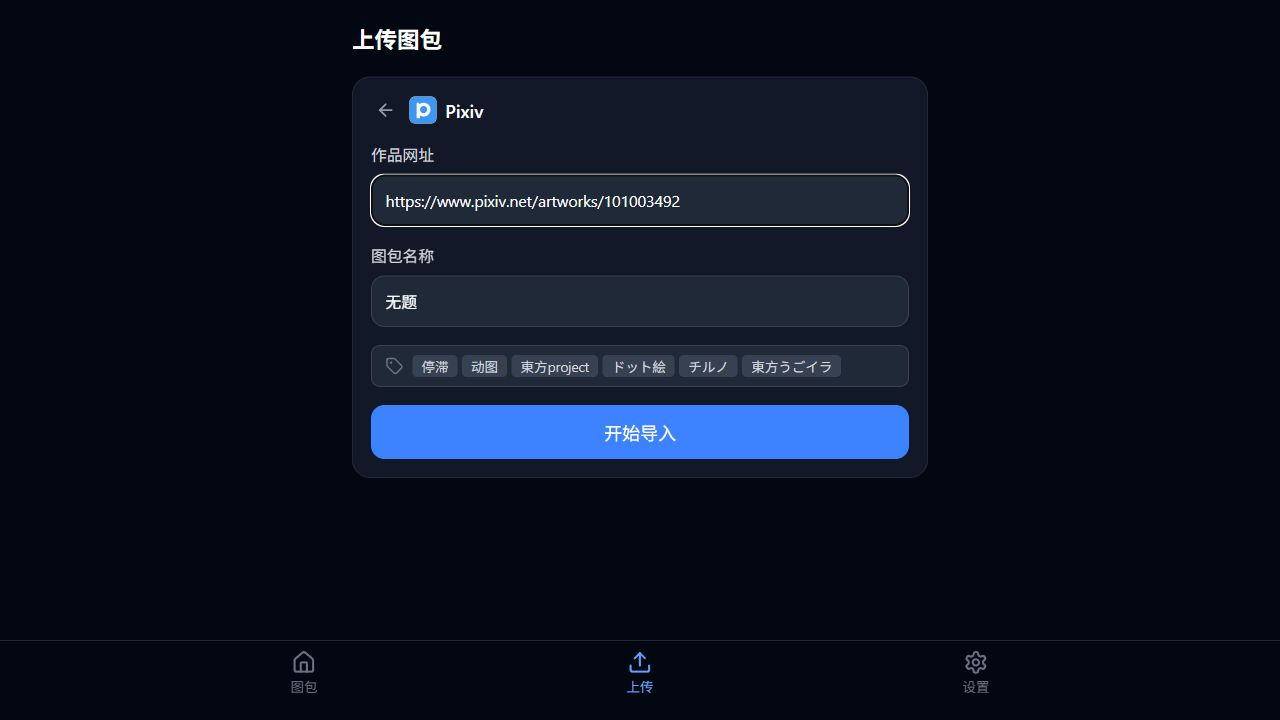
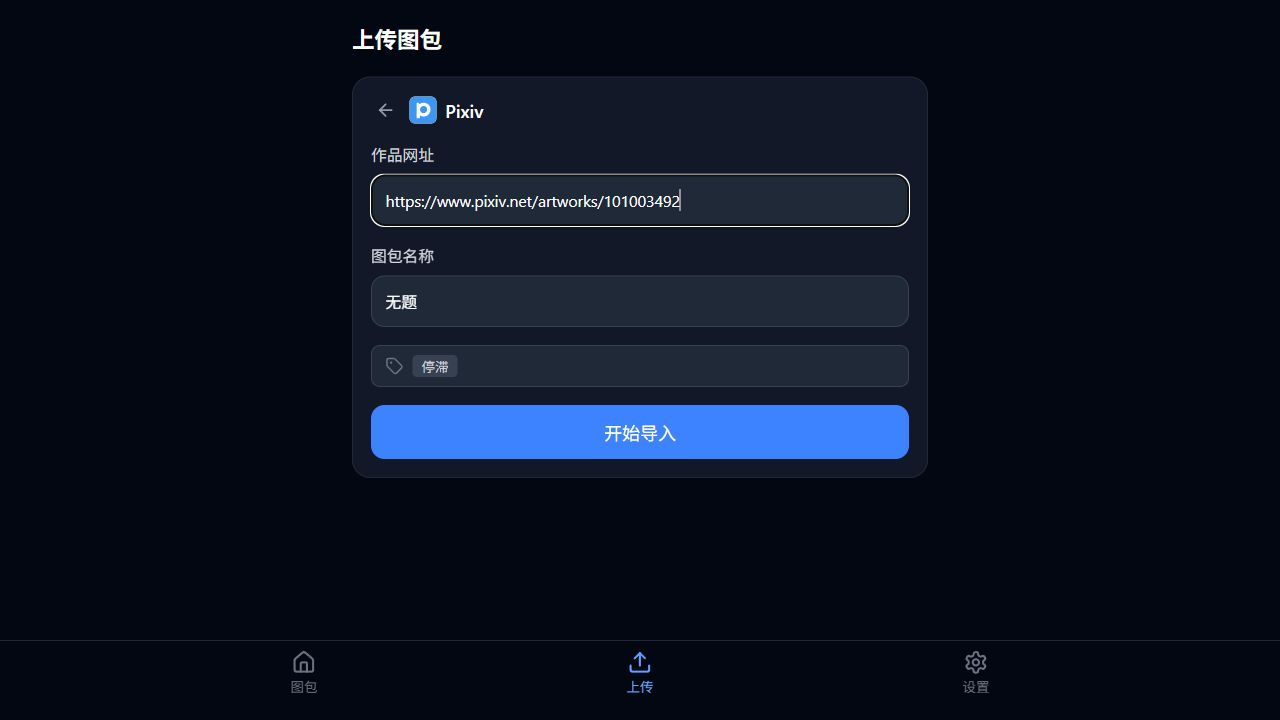
Refine import completion and enable RAR extraction

Changed region(s): [[0.3438, 0.4889, 0.6562, 0.55]]

diff --git a/client/src/components/UploadTask.tsx b/client/src/components/UploadTask.tsx
@@ -1,7 +1,9 @@
 import { useEffect, useRef, useState } from 'react';
 import { useNavigate } from 'react-router-dom';
-import type { UploadTaskStatus as Task } from '../../../shared/types';
-import { get, post, del } from '../api/client';
+import type { UploadTaskStatus as Task, PackThumbnail } from '../../../shared/types';
+import { ApiError, get, post, del } from '../api/client';
+import { fetchThumbnails } from '../api/packs';
+import { resourceUrl } from '../lib/connection';
 import { clearPacksCache } from '../lib/homeStore';
 import { rememberUploadTask, forgetUploadTask } from '../lib/uploadTask';
 import UploadTaskStatus, { taskActionClass } from './UploadTaskStatus';
@@ -21,8 +23,11 @@ export default function UploadTask({ packId, onDone }: { packId: string; onDone:
   const [revision, setRevision] = useState(0);
   const [confirmDelete, setConfirmDelete] = useState(false);
   const [settings, setSettings] = useState(false);
+  const [thumbnails, setThumbnails] = useState<PackThumbnail[]>([]);
   const acting = useRef(false);
   const removed = useRef(false);
+  const onDoneRef = useRef(onDone);
+  onDoneRef.current = onDone;
   const finish = () => { forgetUploadTask(); onDone(); };
   useEffect(() => {
     rememberUploadTask(packId);
@@ -37,6 +42,9 @@ export default function UploadTask({ packId, onDone }: { packId: string; onDone:
         if (['extracted', 'generated', 'failed'].includes(result.pack.status) && !acting.current) return;
       } catch (err) {
         if (controller.signal.aborted || removed.current) return;
+        if (err instanceof ApiError && err.status === 404) {
+          removed.current = true; forgetUploadTask(packId); onDoneRef.current(); return;
+        }
         if (!acting.current) setError(`无法更新处理状态：${err instanceof Error ? err.message : String(err)}`);
       }
       if (!controller.signal.aborted) timer = setTimeout(poll, 1000);
@@ -59,12 +67,24 @@ export default function UploadTask({ packId, onDone }: { packId: string; onDone:
   };
   const pack = task?.pack;
   const done = Boolean(pack && ['extracted', 'generated'].includes(pack.status));
+  useEffect(() => {
+    if (!done) return;
+    let active = true;
+    void fetchThumbnails(packId).then(items => { if (active) setThumbnails(items.slice(0, 6)); }).catch(() => {});
+    return () => { active = false; };
+  }, [packId, done]);
   const failed = pack?.status === 'failed';
   const duplicate = pack?.status === 'awaiting_confirmation';
   const activeProgress = task?.progress && ['pending', 'running'].includes(task.progress.status) ? task.progress : null;
   const progress = pack?.status === 'verifying' ? pack.verification?.percentage : activeProgress?.total ? activeProgress.percentage : undefined;
   return <section className="bg-gray-900 rounded-2xl border border-gray-800 p-4">
     <h3 className="text-lg font-medium text-white mb-4 break-words">{pack?.name ?? '正在读取任务…'}</h3>
+    {thumbnails.length > 0 && <div className="grid grid-cols-3 sm:grid-cols-6 gap-2 mb-4" aria-label="图包预览">
+      {thumbnails.map(item => <button key={item.name} type="button" onClick={() => { finish(); navigate(`/packs/${packId}`); }} className="relative aspect-square overflow-hidden rounded-lg bg-gray-800" aria-label={`预览 ${item.name}`}>
+        <img src={resourceUrl(item.thumbUrl)} crossOrigin="anonymous" alt={item.name} className="w-full h-full object-cover" />
+        {item.mediaType === 'ugoira' && <span className="absolute bottom-0 right-0 bg-black/70 px-1 text-xs text-white">动图</span>}
+      </button>)}
+    </div>}
     <UploadTaskStatus stage={busy && confirmDelete ? '正在取消并清理文件…' : pack?.status === 'uploading' && pack.originalFormat !== 'pixiv' ? '等待上传完成' : pack ? stages[pack.status] : '正在读取任务'}
       done={done} paused={duplicate} error={error || (failed ? pack.errorMessage || '处理失败，请重试或删除后重新上传' : null)} progress={progress}
       detail={done ? `${pack!.imageCount} 张图片 · ${pack!.videoCount} 个视频，可以预览` : failed && !task?.retryable ? '请删除此任务，检查源文件或压缩包密码后重新上传。' : activeProgress?.total ? `${activeProgress.completed} / ${activeProgress.total} 个文件` : undefined}>
@@ -73,7 +93,7 @@ export default function UploadTask({ packId, onDone }: { packId: string; onDone:
       {duplicate && !task?.matches.length && <button disabled={busy} className={taskActionClass} onClick={() => void act(async () => { await post(`/packs/${packId}/upload-task/continue`); })}>继续处理</button>}
       {done ? <>
         <button className={taskActionClass} onClick={() => { finish(); navigate(`/packs/${packId}`); }}>查看图包</button>
-        <button className={taskActionClass} onClick={finish}>继续上传</button>
+        <button className="flex-1 rounded-xl bg-blue-600 px-4 py-2.5 text-sm font-medium text-white hover:bg-blue-500" onClick={finish}>继续上传</button>
       </> : <button disabled={busy} className={`${taskActionClass} text-red-300`} onClick={() => setConfirmDelete(true)}>{failed ? '删除任务' : '取消并删除'}</button>}
       {error && <><button disabled={busy} className={taskActionClass} onClick={() => { setError(''); setRevision(value => value + 1); }}>刷新状态</button><button disabled={busy} className={taskActionClass} onClick={finish}>返回上传</button></>}
     </UploadTaskStatus>

diff --git a/client/src/pages/UploadPage.tsx b/client/src/pages/UploadPage.tsx
@@ -1,5 +1,5 @@
 import { useState, useRef, useCallback, useEffect } from 'react';
-import { useNavigate, useSearchParams } from 'react-router-dom';
+import { useNavigate, useLocation } from 'react-router-dom';
 import { useUpload } from '../hooks/useUpload';
 import { useFolderUpload } from '../hooks/useFolderUpload';
 import { clearPacksCache } from '../lib/homeStore';
@@ -21,18 +21,19 @@ const isIOS = /iPad|iPhone|iPod/.test(navigator.userAgent);
 
 export default function UploadPage() {
   const navigate = useNavigate();
-  const [searchParams, setSearchParams] = useSearchParams();
-  const [restoredTask, setRestoredTask] = useState(() => searchParams.size ? null : readUploadTask());
-  const initialFolderId = useRef(searchParams.get('folder'));
-  const serverFolder = useRef(Boolean(initialFolderId.current));
+  const location = useLocation();
+  const [restoredTask, setRestoredTask] = useState(readUploadTask);
+  const serverFolder = useRef(false);
+  // Retire legacy task URLs; task ownership is scoped to this browser session.
+  useEffect(() => { if (location.search) navigate('/upload', { replace: true }); }, [location.search, navigate]);
 
   // Archive upload
   const { matches: duplicateMatches, continueUpload: continueArchive, progress: archiveProgress, status: archiveStatus, error: archiveError, packId: archivePackId, startUpload: startArchiveUpload, pause: pauseArchive, resume: resumeArchive, cancel: cancelArchive, reset: resetArchive } = useUpload();
 
   // Folder upload
-  const { matches: folderMatches, restoreUpload: restoreFolder, continueUpload: continueFolder, retry: retryFolder, phase: folderPhase, packId: folderPackId, files: folderFiles, overallProgress: folderProgress, error: folderError, scanFiles, startUpload: startFolderUpload, pause: pauseFolder, resume: resumeFolder, cancel: cancelFolder, reset: resetFolder } = useFolderUpload();
+  const { matches: folderMatches, continueUpload: continueFolder, retry: retryFolder, phase: folderPhase, packId: folderPackId, files: folderFiles, overallProgress: folderProgress, error: folderError, scanFiles, startUpload: startFolderUpload, pause: pauseFolder, resume: resumeFolder, cancel: cancelFolder, reset: resetFolder } = useFolderUpload();
 
-  const [mode, setMode] = useState<UploadMode>(searchParams.has('pixiv') ? 'pixiv' : null);
+  const [mode, setMode] = useState<UploadMode>(null);
   const [cancelConfirm, setCancelConfirm] = useState<null | 'open' | 'closing'>(null);
   const [dragOver, setDragOver] = useState(false);
 
@@ -55,21 +56,6 @@ export default function UploadPage() {
   const fileDetailsRef = useRef<HTMLDivElement>(null);
   const lastUserScrollRef = useRef(0);
   const prevUploadingIdsRef = useRef<Set<string>>(new Set());
-
-  useEffect(() => {
-    const id = initialFolderId.current;
-    if (!id) return;
-    initialFolderId.current = null;
-    setMode('folder');
-    setPackName('文件夹上传');
-    restoreFolder(id);
-  }, [restoreFolder]);
-
-  useEffect(() => {
-    if (mode === 'folder' && folderPackId && !serverFolder.current) {
-      setSearchParams({ folder: folderPackId }, { replace: true });
-    }
-  }, [mode, folderPackId, setSearchParams]);
 
   // Auto-scroll file details when a new file starts uploading
   useEffect(() => {
@@ -276,7 +262,6 @@ export default function UploadPage() {
   const resetToIdle = () => {
     forgetUploadTask(); setRestoredTask(null);
     serverFolder.current = false;
-    setSearchParams({}, { replace: true });
     clearPacksCache();
     setMode(null);
     setFile(null);
@@ -306,10 +291,7 @@ export default function UploadPage() {
   // --- Derived states ---
 
   if (['checking', 'duplicate', 'thumbnailing', 'done'].includes(folderPhase) && folderPackId) serverFolder.current = true;
-  const serverTaskId = searchParams.get('task') || archivePackId || (serverFolder.current ? folderPackId : null) || restoredTask;
-  useEffect(() => {
-    if (serverTaskId && !searchParams.has('task')) setSearchParams({ task: serverTaskId }, { replace: true });
-  }, [serverTaskId, searchParams, setSearchParams]);
+  const serverTaskId = archivePackId || (serverFolder.current ? folderPackId : null) || restoredTask;
 
   return (
     <div className="max-w-lg mx-auto">

diff --git a/server/test/rar-extraction.test.ts b/server/test/rar-extraction.test.ts
@@ -1,0 +1,52 @@
+import assert from 'node:assert/strict';
+import test from 'node:test';
+import fs from 'node:fs';
+import os from 'node:os';
+import path from 'node:path';
+import { execFileSync } from 'node:child_process';
+import sharp from 'sharp';
+
+const root = fs.mkdtempSync(path.join(os.tmpdir(), 'aoi-rar-'));
+process.env.DATA_DIR = root;
+const { initDb, closeDb } = await import('../src/db/connection.js');
+const { createPack, getPack } = await import('../src/db/repositories.js');
+const { archiveExtractor } = await import('../src/services/archive-extractor.js');
+const { getArchivePath, getExtractedImagesDir } = await import('../src/services/storage.js');
+await initDb();
+test.after(() => { closeDb(); fs.rmSync(root, { recursive: true, force: true }); });
+
+function crc32(bytes: Buffer): number {
+  let crc = 0xffffffff;
+  for (const byte of bytes) {
+    crc ^= byte;
+    for (let i = 0; i < 8; i++) crc = (crc >>> 1) ^ (crc & 1 ? 0xedb88320 : 0);
+  }
+  return (crc ^ 0xffffffff) >>> 0;
+}
+function block(type: number, flags: number, payload = Buffer.alloc(0)): Buffer {
+  const data = Buffer.alloc(7 + payload.length);
+  data[2] = type; data.writeUInt16LE(flags, 3); data.writeUInt16LE(data.length, 5);
+  payload.copy(data, 7); data.writeUInt16LE(crc32(data.subarray(2)) & 0xffff);
+  return data;
+}
+
+test('RAR image imports through the installed 7z backend and preserves image bytes', async () => {
+  // A generated RAR4 stored entry avoids committing archives or third-party media.
+  const formats = execFileSync('7z', ['i'], { encoding: 'utf8' });
+  assert.match(formats, /\bRar\b/); assert.match(formats, /\bRar5\b/);
+  const image = await sharp({ create: { width: 8, height: 8, channels: 3, background: '#225599' } }).png().toBuffer();
+  const name = Buffer.from('image.png');
+  const header = Buffer.alloc(25 + name.length);
+  header.writeUInt32LE(image.length, 0); header.writeUInt32LE(image.length, 4);
+  header[8] = 2; header.writeUInt32LE(crc32(image), 9);
+  header[17] = 20; header[18] = 0x30; header.writeUInt16LE(name.length, 19);
+  header.writeUInt32LE(0x20, 21); name.copy(header, 25);
+  const archive = Buffer.concat([Buffer.from('526172211a0700', 'hex'), block(0x73, 0, Buffer.alloc(6)), block(0x74, 0x8000, header), image, block(0x7b, 0)]);
+  const pack = createPack({ name: 'RAR smoke test', originalFilename: 'test.rar', originalFormat: 'rar', originalSize: archive.length });
+  const archivePath = getArchivePath(pack.id, 'original.rar');
+  fs.mkdirSync(path.dirname(archivePath), { recursive: true }); fs.writeFileSync(archivePath, archive);
+  await archiveExtractor.extract(pack);
+  assert.equal(getPack(pack.id)?.imageCount, 1);
+  assert.deepEqual(fs.readFileSync(path.join(getExtractedImagesDir(pack.id), 'image.png')), image);
+});
+

diff --git a/server/test/pixiv-auth.test.ts b/server/test/pixiv-auth.test.ts
@@ -59,7 +59,7 @@ test('token errors never echo upstream credentials and never downgrade to anonym
   } finally { await agent.close(); }
 });
 
-test('settings persist privately, never return the token, and metadata creates reusable author and work tags', async t => {
+test('settings persist privately, never return the token, and metadata creates only the reusable author tag', async t => {
   t.mock.method(jobQueue, 'start', () => {});
   const app = Fastify(); await app.register(registerPixivRoutes);
   try {
@@ -76,9 +76,9 @@ test('settings persist privately, never return the token, and metadata creates r
     t.mock.method(getPixivClient(), 'describe', async () => ({ metadata: { title: 'Title', userName: 'Author', illustType: 0, pageCount: 1 }, tagNames: ['favorite', 'favorite'], pages: undefined }));
     const metadata = await app.inject({ method: 'POST', url: '/api/packs/pixiv-metadata', payload: { url: 'https://www.pixiv.net/artworks/123' } });
     assert.equal(metadata.statusCode, 200);
-    assert.deepEqual(metadata.json().tags.map((tag: { name: string }) => tag.name), ['Author', 'favorite']);
+    assert.deepEqual(metadata.json().tags.map((tag: { name: string }) => tag.name), ['Author']);
     await app.inject({ method: 'POST', url: '/api/packs/pixiv-metadata', payload: { url: 'https://www.pixiv.net/artworks/123' } });
-    assert.equal(listTags().length, 2); // Tags survive closing the form without an import.
+    assert.equal(listTags().length, 1); // Tags survive closing the form without an import.
     const immediate = (await app.inject({ method: 'POST', url: '/api/packs/pixiv-import', payload: { url: 'https://www.pixiv.net/artworks/123' } })).json();
     assert.deepEqual(JSON.parse(getLatestJob(immediate.id, 'pixiv')!.options!), { autoName: true, autoTags: true });
     updateJobStatus(getLatestJob(immediate.id, 'pixiv')!.id, 'completed');

diff --git a/client/src/components/PixivImport.tsx b/client/src/components/PixivImport.tsx
@@ -1,5 +1,4 @@
 import { useEffect, useRef, useState } from 'react';
-import { useSearchParams } from 'react-router-dom';
 import { ArrowLeft, Tag as TagIcon } from 'lucide-react';
 import { startPixivImport, fetchPixivMetadata } from '../api/pixiv';
 import { fetchTags } from '../api/packs';
@@ -11,8 +10,7 @@ import { PixivSettingsDialog } from './ExternalSourcesSettings';
 import TagSelector from './TagSelector';
 
 export default function PixivImport({ onBack }: { onBack: () => void }) {
-  const [params, setParams] = useSearchParams();
-  const packId = params.get('pixiv');
+  const [packId, setPackId] = useState<string | null>(null);
   const [url, setUrl] = useState('');
   const [name, setName] = useState('');
   const [tagIds, setTagIds] = useState<string[]>([]);
@@ -62,9 +60,9 @@ export default function PixivImport({ onBack }: { onBack: () => void }) {
     let pack;
     try { pack = await startPixivImport(input); }
     catch (error) { started.current = false; throw error; }
-    setParams({ pixiv: pack.id }, { replace: true });
+    setPackId(pack.id);
   });
-  const leave = () => { clearPacksCache(); setParams({}, { replace: true }); onBack(); };
+  const leave = () => { clearPacksCache(); setPackId(null); onBack(); };
 
   if (packId) return <UploadTask key={packId} packId={packId} onDone={leave} />;
 

diff --git a/client/src/components/ImportSources.tsx b/client/src/components/ImportSources.tsx
@@ -9,9 +9,9 @@ export function PixivIcon({ className = 'w-10 h-10' }: { className?: string }) {
 // A provider descriptor keeps the layout independent of individual import forms.
 const sources = [{ id: 'pixiv', label: 'Pixiv', Icon: PixivIcon }] as const;
 
-export default function ImportSources({ onSelect, title = '导入自' }: { onSelect: (source: typeof sources[number]['id']) => void; title?: string }) {
-  return <section className="mt-6" aria-label={title}>
-    <h3 className="text-sm text-gray-500 mb-3">{title}</h3>
+export default function ImportSources({ onSelect, title = '导入自', card = false }: { onSelect: (source: typeof sources[number]['id']) => void; title?: string; card?: boolean }) {
+  return <section className={card ? 'mt-3 bg-gray-900 rounded-xl p-4 border border-gray-800' : 'mt-6'} aria-label={title}>
+    <h3 className={card ? 'text-sm font-medium text-white mb-3' : 'text-sm text-gray-500 mb-3'}>{title}</h3>
     <div className="flex flex-wrap gap-3">
       {sources.map(({ id, label, Icon }) => <button key={id} type="button" onClick={() => onSelect(id)}
         className="flex flex-col items-center gap-2 rounded-xl px-4 py-3 text-gray-400 hover:bg-gray-800 hover:text-gray-200 transition-colors">

diff --git a/server/src/services/pixiv-importer.ts b/server/src/services/pixiv-importer.ts
@@ -184,7 +184,7 @@ export async function importPixivPack(
   const pack = getPack(packId);
   if (!pack || pack.originalFormat !== 'pixiv') throw new Error('Pixiv 图包不存在');
   const { id } = parsePixivUrl(pack.originalFilename);
-  const { metadata, tagNames, pages, ugoira } = await pixiv.artwork(id, signal);
+  const { metadata, pages, ugoira } = await pixiv.artwork(id, signal);
   signal?.throwIfAborted();
   const directory = getExtractedImagesDir(packId);
   ensureDir(directory);
@@ -220,7 +220,7 @@ export async function importPixivPack(
     const options = JSON.parse(getLatestJob(packId, 'pixiv')?.options ?? '{}') as { autoName?: boolean; autoTags?: boolean };
     const name = (options.autoName ?? pack.name === `Pixiv ${id}`) ? metadata.title.replace(/[\0\r\n]/g, ' ').slice(0, 200) : pack.name;
     if (options.autoTags ?? true) {
-      const tags = ensurePixivTags([metadata.userName, ...tagNames]);
+      const tags = ensurePixivTags([metadata.userName]);
       setPackTags(packId, [...new Set([...pack.tags.map(tag => tag.id), ...tags.map(tag => tag.id)])].slice(0, 1000));
     }
     getDb().prepare('UPDATE packs SET name = ?, original_size = ? WHERE id = ?').run(name, bytes, packId);

diff --git a/client/src/pages/PackDetailPage.tsx b/client/src/pages/PackDetailPage.tsx
@@ -1,3 +1,4 @@
+import { rememberUploadTask } from '../lib/uploadTask';
 import { serverWritable, serverCanDownloadArchive } from '../lib/connection';
 import { resourceUrl } from '../lib/connection';
 import { useState, useEffect, useCallback, useRef, useMemo } from 'react';
@@ -386,7 +387,7 @@ export default function PackDetailPage() {
         </div>
       )}
       {pack.sourceType === 'folder' && (['uploading', 'verifying', 'awaiting_confirmation'].includes(pack.status) || (pack.originalFormat === 'pixiv' && pack.status === 'failed')) && !pack.verification?.allowsPreview && (
-        <button disabled={!serverWritable} className="mb-4 px-4 py-2 rounded-xl bg-blue-600 text-white" onClick={() => navigate(`/upload?${pack.originalFormat === 'pixiv' ? 'pixiv' : 'folder'}=${pack.id}`)}>
+        <button disabled={!serverWritable} className="mb-4 px-4 py-2 rounded-xl bg-blue-600 text-white" onClick={() => { rememberUploadTask(pack.id); navigate('/upload'); }}>
           {pack.originalFormat === 'pixiv' ? '查看导入进度' : '继续完成上传'}
         </button>
       )}

diff --git a/server/src/routes/pixiv.ts b/server/src/routes/pixiv.ts
@@ -31,11 +31,11 @@ export const registerPixivRoutes: FastifyPluginAsync = async app => {
     try {
       const input = z.object({ url: z.string().max(2048) }).strict().parse(request.body);
       const { id } = parsePixivUrl(input.url);
-      const { metadata, tagNames } = await getPixivClient().describe(id);
+      const { metadata } = await getPixivClient().describe(id);
       const end = beginMutation();
       try {
         return { title: metadata.title.replace(/[\0\r\n]/g, ' ').slice(0, 200), author: metadata.userName,
-          tags: ensurePixivTags([metadata.userName, ...tagNames]), mediaType: metadata.illustType === 2 ? 'ugoira' : 'image' } satisfies PixivMetadata;
+          tags: ensurePixivTags([metadata.userName]), mediaType: metadata.illustType === 2 ? 'ugoira' : 'image' } satisfies PixivMetadata;
       } finally { end(); }
     } catch (error) {
       return reply.code(400).send({ error: error instanceof Error ? error.message : '无法识别 Pixiv 作品' });

diff --git a/client/src/lib/uploadTask.ts b/client/src/lib/uploadTask.ts
@@ -1,6 +1,9 @@
 import { activeServer } from './connection';
 
-const key = () => `activeUploadTask:${activeServer?.id || 'local'}`;
-export function readUploadTask(): string | null { return localStorage.getItem(key()); }
-export function rememberUploadTask(id: string): void { localStorage.setItem(key(), id); }
-export function forgetUploadTask(): void { localStorage.removeItem(key()); }
+const tasks = new Map<string, string>();
+const key = () => activeServer?.id || 'local';
+export function readUploadTask(): string | null { return tasks.get(key()) ?? null; }
+export function rememberUploadTask(id: string): void { tasks.set(key(), id); }
+export function forgetUploadTask(id?: string): void {
+  if (!id || tasks.get(key()) === id) tasks.delete(key());
+}

diff --git a/server/test/pixiv-import.test.ts b/server/test/pixiv-import.test.ts
@@ -28,7 +28,7 @@ test('only accepts Pixiv artwork URLs and original image hosts', () => {
 
 function mockArtwork(agent: MockAgent, count = 2, type = 0) {
   agent.get('https://www.pixiv.net').intercept({ path: '/ajax/illust/123' }).reply(200, {
-    error: false, body: { title: 'A work', userName: 'Artist', pageCount: count, illustType: type },
+    error: false, body: { title: 'A work', userName: 'Artist', pageCount: count, illustType: type, tags: { tags: [{ tag: 'Do not import' }] } },
   });
   if (type !== 2) agent.get('https://www.pixiv.net').intercept({ path: '/ajax/illust/123/pages' }).reply(200, {
     error: false, body: Array.from({ length: count }, (_, index) => ({ urls: { original: `https://i.pximg.net/123_p${index}.png` } })),

diff --git a/client/src/api/packs.ts b/client/src/api/packs.ts
@@ -1,3 +1,4 @@
+import { forgetUploadTask } from '../lib/uploadTask';
 import { apiFetch } from '../lib/connection';
 import type { ArchiveUploadRequest, DuplicateArchiveResponse, FolderUploadStatus, PackThumbnail } from '../../../shared/types.js';
 import { get, post, patch, del, put } from './client';
@@ -21,8 +22,9 @@ export function fetchPack(id: string): Promise<Pack> {
   return get<Pack>(`/packs/${id}`);
 }
 
-export function removePack(id: string): Promise<void> {
-  return del<void>(`/packs/${id}`);
+export async function removePack(id: string): Promise<void> {
+  await del<void>(`/packs/${id}`);
+  forgetUploadTask(id);
 }
 
 export function renamePack(id: string, name: string): Promise<Pack> {
